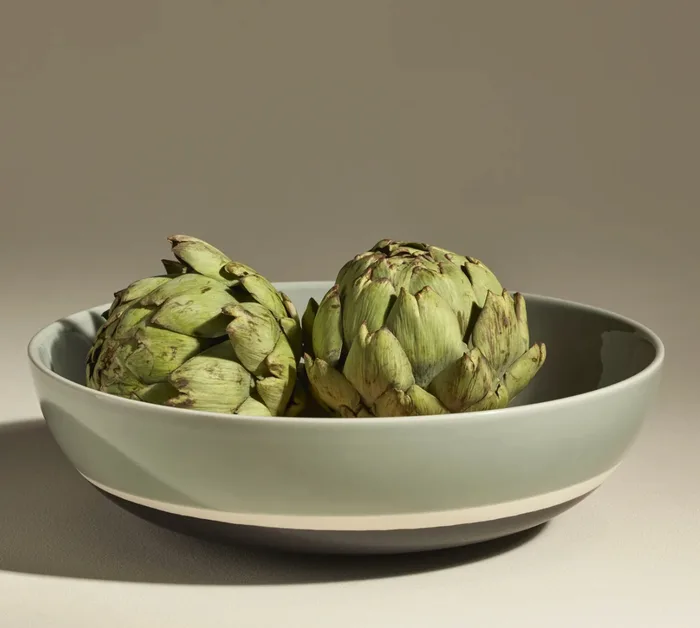
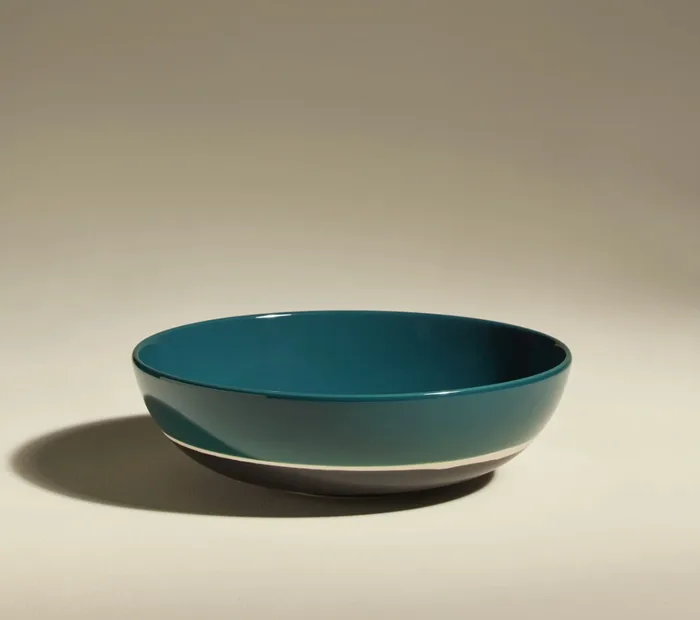
Change le visuel du saladier, separe le voyage de noces des cadeaux et corrige la jauge apres suppression
Ajoute un cadre dedie au voyage de noces avec montant editable, et decremente
la contribution correspondante quand une ligne du journal est supprimee

diff --git a/src/pages/AdminPage.jsx b/src/pages/AdminPage.jsx
@@ -68,8 +68,8 @@ function EditField({ id, label, value, onChange, onSave, suffix, ariaLabel }) {
   );
 }
 
-/** Bandeau des deux totaux, recalcule a chaque rendu depuis GIFTS + prices/contribs. */
-function TotalsBar({ totalPrice, totalCollected, ta }) {
+/** Bandeau des totaux, recalcule a chaque rendu depuis GIFTS + prices/contribs. */
+function TotalsBar({ totalPrice, totalCollected, honeymoonCollected, editHoneymoon, setEditHoneymoon, onSaveHoneymoon, ta }) {
   const pct = totalPrice > 0 ? Math.min(100, Math.round((totalCollected / totalPrice) * 100)) : 0;
 
   return (
@@ -83,6 +83,19 @@ function TotalsBar({ totalPrice, totalCollected, ta }) {
         <div style={{ fontFamily: SERIF, fontSize: 28, color: C.gold }}>
           {Math.round(totalCollected)} € <span style={{ fontSize: 15, color: C.muted }}>({pct}%)</span>
         </div>
+      </div>
+      <div style={{ flex: 1, minWidth: 200, backgroundColor: C.cream, borderRadius: 12, padding: "16px 20px" }}>
+        <div style={{ fontSize: 11, letterSpacing: "0.1em", textTransform: "uppercase", color: C.greenMid, marginBottom: 6 }}>{ta.totalHoneymoon}</div>
+        <div style={{ fontFamily: SERIF, fontSize: 28, color: C.gold, marginBottom: 10 }}>{Math.round(honeymoonCollected)} €</div>
+        <EditField
+          id="honeymoon-amount"
+          label={ta.amount}
+          value={editHoneymoon}
+          onChange={setEditHoneymoon}
+          onSave={onSaveHoneymoon}
+          suffix="€"
+          ariaLabel={`${ta.amount} ${ta.totalHoneymoon}`}
+        />
       </div>
     </div>
   );
@@ -103,6 +116,7 @@ const MAX_DECLARE = 5000;
 
 function AddDeclaration({ onAdd, ta, lang }) {
   const [name, setName] = useState("");
+  const [email, setEmail] = useState("");
   const [giftId, setGiftId] = useState(HONEYMOON.id);
   const [amount, setAmount] = useState("");
   const [method, setMethod] = useState("");
@@ -114,10 +128,11 @@ function AddDeclaration({ onAdd, ta, lang }) {
     if (!Number.isFinite(value) || value < MIN_DECLARE || value > MAX_DECLARE) return;
 
     setSending(true);
-    const ok = await onAdd({ giftId, amount: value, name: name.trim(), method: method.trim() });
+    const ok = await onAdd({ giftId, amount: value, name: name.trim(), method: method.trim(), email: email.trim() });
     setSending(false);
     if (ok) {
       setName("");
+      setEmail("");
       setAmount("");
       setMethod("");
     }
@@ -130,6 +145,11 @@ function AddDeclaration({ onAdd, ta, lang }) {
       <div style={{ flex: "1 1 140px", minWidth: 120 }}>
         <label htmlFor="add-name" style={{ display: "block", fontSize: 11, color: C.muted, marginBottom: 4 }}>{ta.logAddName}</label>
         <input id="add-name" type="text" value={name} onChange={(e) => setName(e.target.value)} maxLength={60} style={{ ...field, width: "100%", boxSizing: "border-box" }} />
+      </div>
+
+      <div style={{ flex: "1 1 160px", minWidth: 140 }}>
+        <label htmlFor="add-email" style={{ display: "block", fontSize: 11, color: C.muted, marginBottom: 4 }}>{ta.logEmail}</label>
+        <input id="add-email" type="email" value={email} onChange={(e) => setEmail(e.target.value)} maxLength={120} style={{ ...field, width: "100%", boxSizing: "border-box" }} />
       </div>
 
       <div style={{ flex: "2 1 180px", minWidth: 150 }}>
@@ -225,6 +245,16 @@ function downloadCsv(rows, ta, lang) {
   URL.revokeObjectURL(url);
 }
 
+/** Lien mailto: prefilli avec un mot de remerciement pour ce don. */
+const mailtoHref = (row, ta, lang) => {
+  const subject = ta.logMailSubject;
+  const body = ta.logMailBody
+    .replace("{name}", row.guest_name || "")
+    .replace("{amount}", Math.round(row.amount))
+    .replace("{gift}", giftLabel(row.gift_id, lang));
+  return `mailto:${row.guest_email}?subject=${encodeURIComponent(subject)}&body=${encodeURIComponent(body)}`;
+};
+
 /** Journal des participations declarees par les invites, la plus recente en tete. */
 function DeclarationLog({ rows, onDelete, ta, lang }) {
   const nameOf = (giftId) => giftLabel(giftId, lang);
@@ -296,6 +326,27 @@ function DeclarationLog({ rows, onDelete, ta, lang }) {
                 )}
               </div>
               <span style={{ fontFamily: SERIF, fontSize: 18, color: C.gold, flexShrink: 0 }}>{Math.round(row.amount)} €</span>
+              {row.guest_email && (
+                <a
+                  href={mailtoHref(row, ta, lang)}
+                  aria-label={ta.logMailButton}
+                  title={ta.logMailButton}
+                  style={{
+                    background: "none",
+                    border: `1px solid ${C.border}`,
+                    borderRadius: 6,
+                    padding: "6px 8px",
+                    cursor: "pointer",
+                    color: C.greenMid,
+                    fontSize: 14,
+                    flexShrink: 0,
+                    textDecoration: "none",
+                    lineHeight: 1,
+                  }}
+                >
+                  ✉
+                </a>
+              )}
               <button
                 onClick={() => onDelete(row.id)}
                 aria-label={ta.logDelete}
@@ -420,9 +471,9 @@ export default function AdminPage({ contribs, prices, onSaved, onPriceSaved, onC
 
   // Saisie manuelle : meme chemin que les invites, pour que la jauge du cadeau
   // suive sans intervention supplementaire.
-  const addDeclaration = async ({ giftId, amount, name, method }) => {
+  const addDeclaration = async ({ giftId, amount, name, method, email }) => {
     try {
-      const total = await declareContribution(giftId, amount, name, method);
+      const total = await declareContribution(giftId, amount, name, method, undefined, email);
       onSaved(giftId, total);
       const rows = await fetchDeclarations();
       if (rows) setDeclarations(rows);
@@ -435,13 +486,23 @@ export default function AdminPage({ contribs, prices, onSaved, onPriceSaved, onC
     }
   };
 
+  // Supprimer une ligne du journal ne doit pas laisser son montant dans la
+  // jauge du cadeau : la table `contributions` est corrigee dans la foulee.
   const deleteDeclaration = async (id) => {
+    const row = declarations.find((r) => r.id === id);
     const { error } = await supabase.from("declarations").delete().eq("id", id);
     if (error) {
       showToast(ta.saveError);
       return;
     }
-    setDeclarations((prev) => prev.filter((row) => row.id !== id));
+    setDeclarations((prev) => prev.filter((r) => r.id !== id));
+
+    if (row) {
+      const updated = Math.max(0, (contribs[row.gift_id] || 0) - row.amount);
+      const { error: contribError } = await supabase.from("contributions").upsert({ id: row.gift_id, amount: updated });
+      if (!contribError) onSaved(row.gift_id, updated);
+    }
+
     showToast(ta.logDeleted);
   };
 
@@ -517,7 +578,11 @@ export default function AdminPage({ contribs, prices, onSaved, onPriceSaved, onC
 
           <TotalsBar
             totalPrice={GIFTS.reduce((sum, g) => sum + (prices[g.id] ?? g.amount), 0)}
-            totalCollected={GIFTS.reduce((sum, g) => sum + (contribs[g.id] || 0), 0) + (contribs[HONEYMOON.id] || 0)}
+            totalCollected={GIFTS.reduce((sum, g) => sum + (contribs[g.id] || 0), 0)}
+            honeymoonCollected={contribs[HONEYMOON.id] || 0}
+            editHoneymoon={editVals[HONEYMOON.id] !== undefined ? editVals[HONEYMOON.id] : (contribs[HONEYMOON.id] || 0)}
+            setEditHoneymoon={(v) => setEditVals((prev) => ({ ...prev, [HONEYMOON.id]: v }))}
+            onSaveHoneymoon={() => save(HONEYMOON.id, editVals[HONEYMOON.id] !== undefined ? editVals[HONEYMOON.id] : (contribs[HONEYMOON.id] || 0))}
             ta={ta}
           />
 

diff --git a/src/data/translations.js b/src/data/translations.js
@@ -86,6 +86,7 @@ export const TR = {
       notConfiguredHelp: "L'hébergeur ne fournit pas ces deux variables d'environnement au moment du build :",
       totalTarget: "Montant total des cadeaux",
       totalCollected: "Total collecté",
+      totalHoneymoon: "Voyage de noces collecté",
       log: "Participations déclarées",
       logEmpty: "Aucune participation déclarée pour l'instant.",
       logAnon: "Sans prénom",
@@ -102,6 +103,9 @@ export const TR = {
       logExport: "Exporter en CSV",
       logMessage: "Message",
       logEmail: "E-mail",
+      logMailButton: "Envoyer un mail de remerciement",
+      logMailSubject: "Merci pour votre participation ♡",
+      logMailBody: "Bonjour {name},\n\nMerci infiniment pour votre participation de {amount} € pour « {gift} » ! Cela nous touche énormément.\n\nÀ très bientôt,\nOriane & Louis",
       target: "Cible",
       collected2: "collectés",
       completed2: "Complété",
@@ -209,6 +213,7 @@ export const TR = {
       notConfiguredHelp: "The host does not provide these two environment variables at build time:",
       totalTarget: "Total gift amount",
       totalCollected: "Total raised",
+      totalHoneymoon: "Honeymoon raised",
       log: "Declared contributions",
       logEmpty: "No contribution declared yet.",
       logAnon: "No name",
@@ -225,6 +230,9 @@ export const TR = {
       logExport: "Export as CSV",
       logMessage: "Message",
       logEmail: "Email",
+      logMailButton: "Send a thank-you email",
+      logMailSubject: "Thank you for your contribution ♡",
+      logMailBody: "Hello {name},\n\nThank you so much for your contribution of €{amount} towards \"{gift}\"! It truly means a lot to us.\n\nSee you soon,\nOriane & Louis",
       target: "Target",
       collected2: "raised",
       completed2: "Complete",
